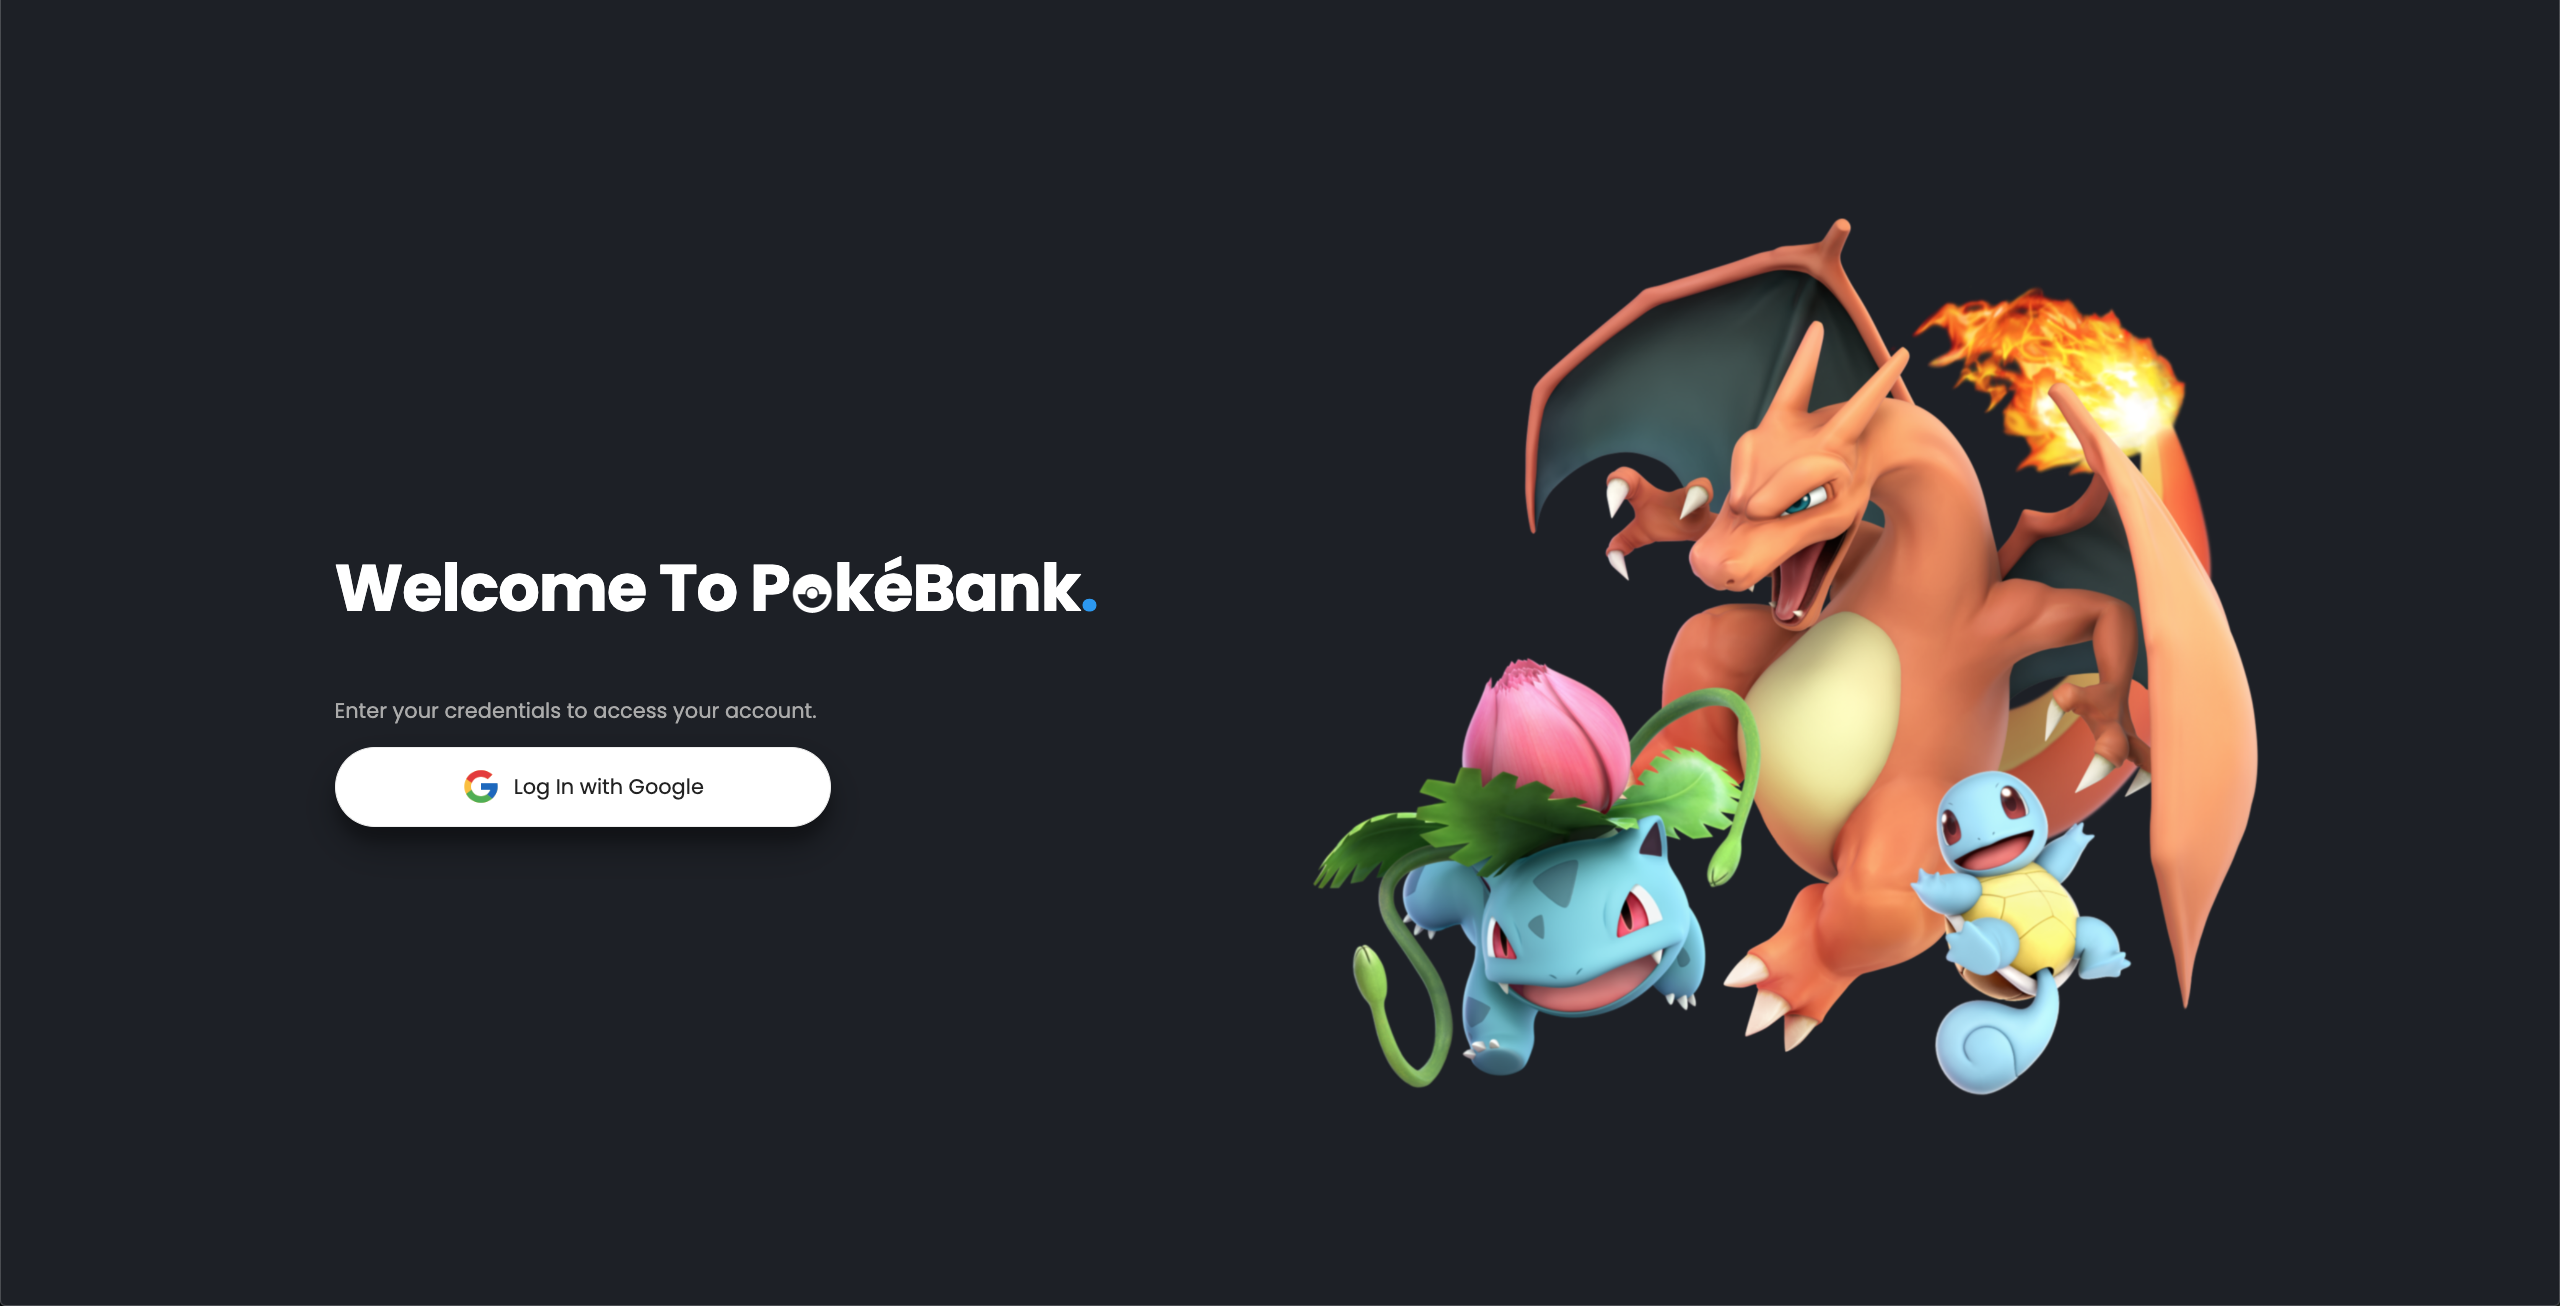
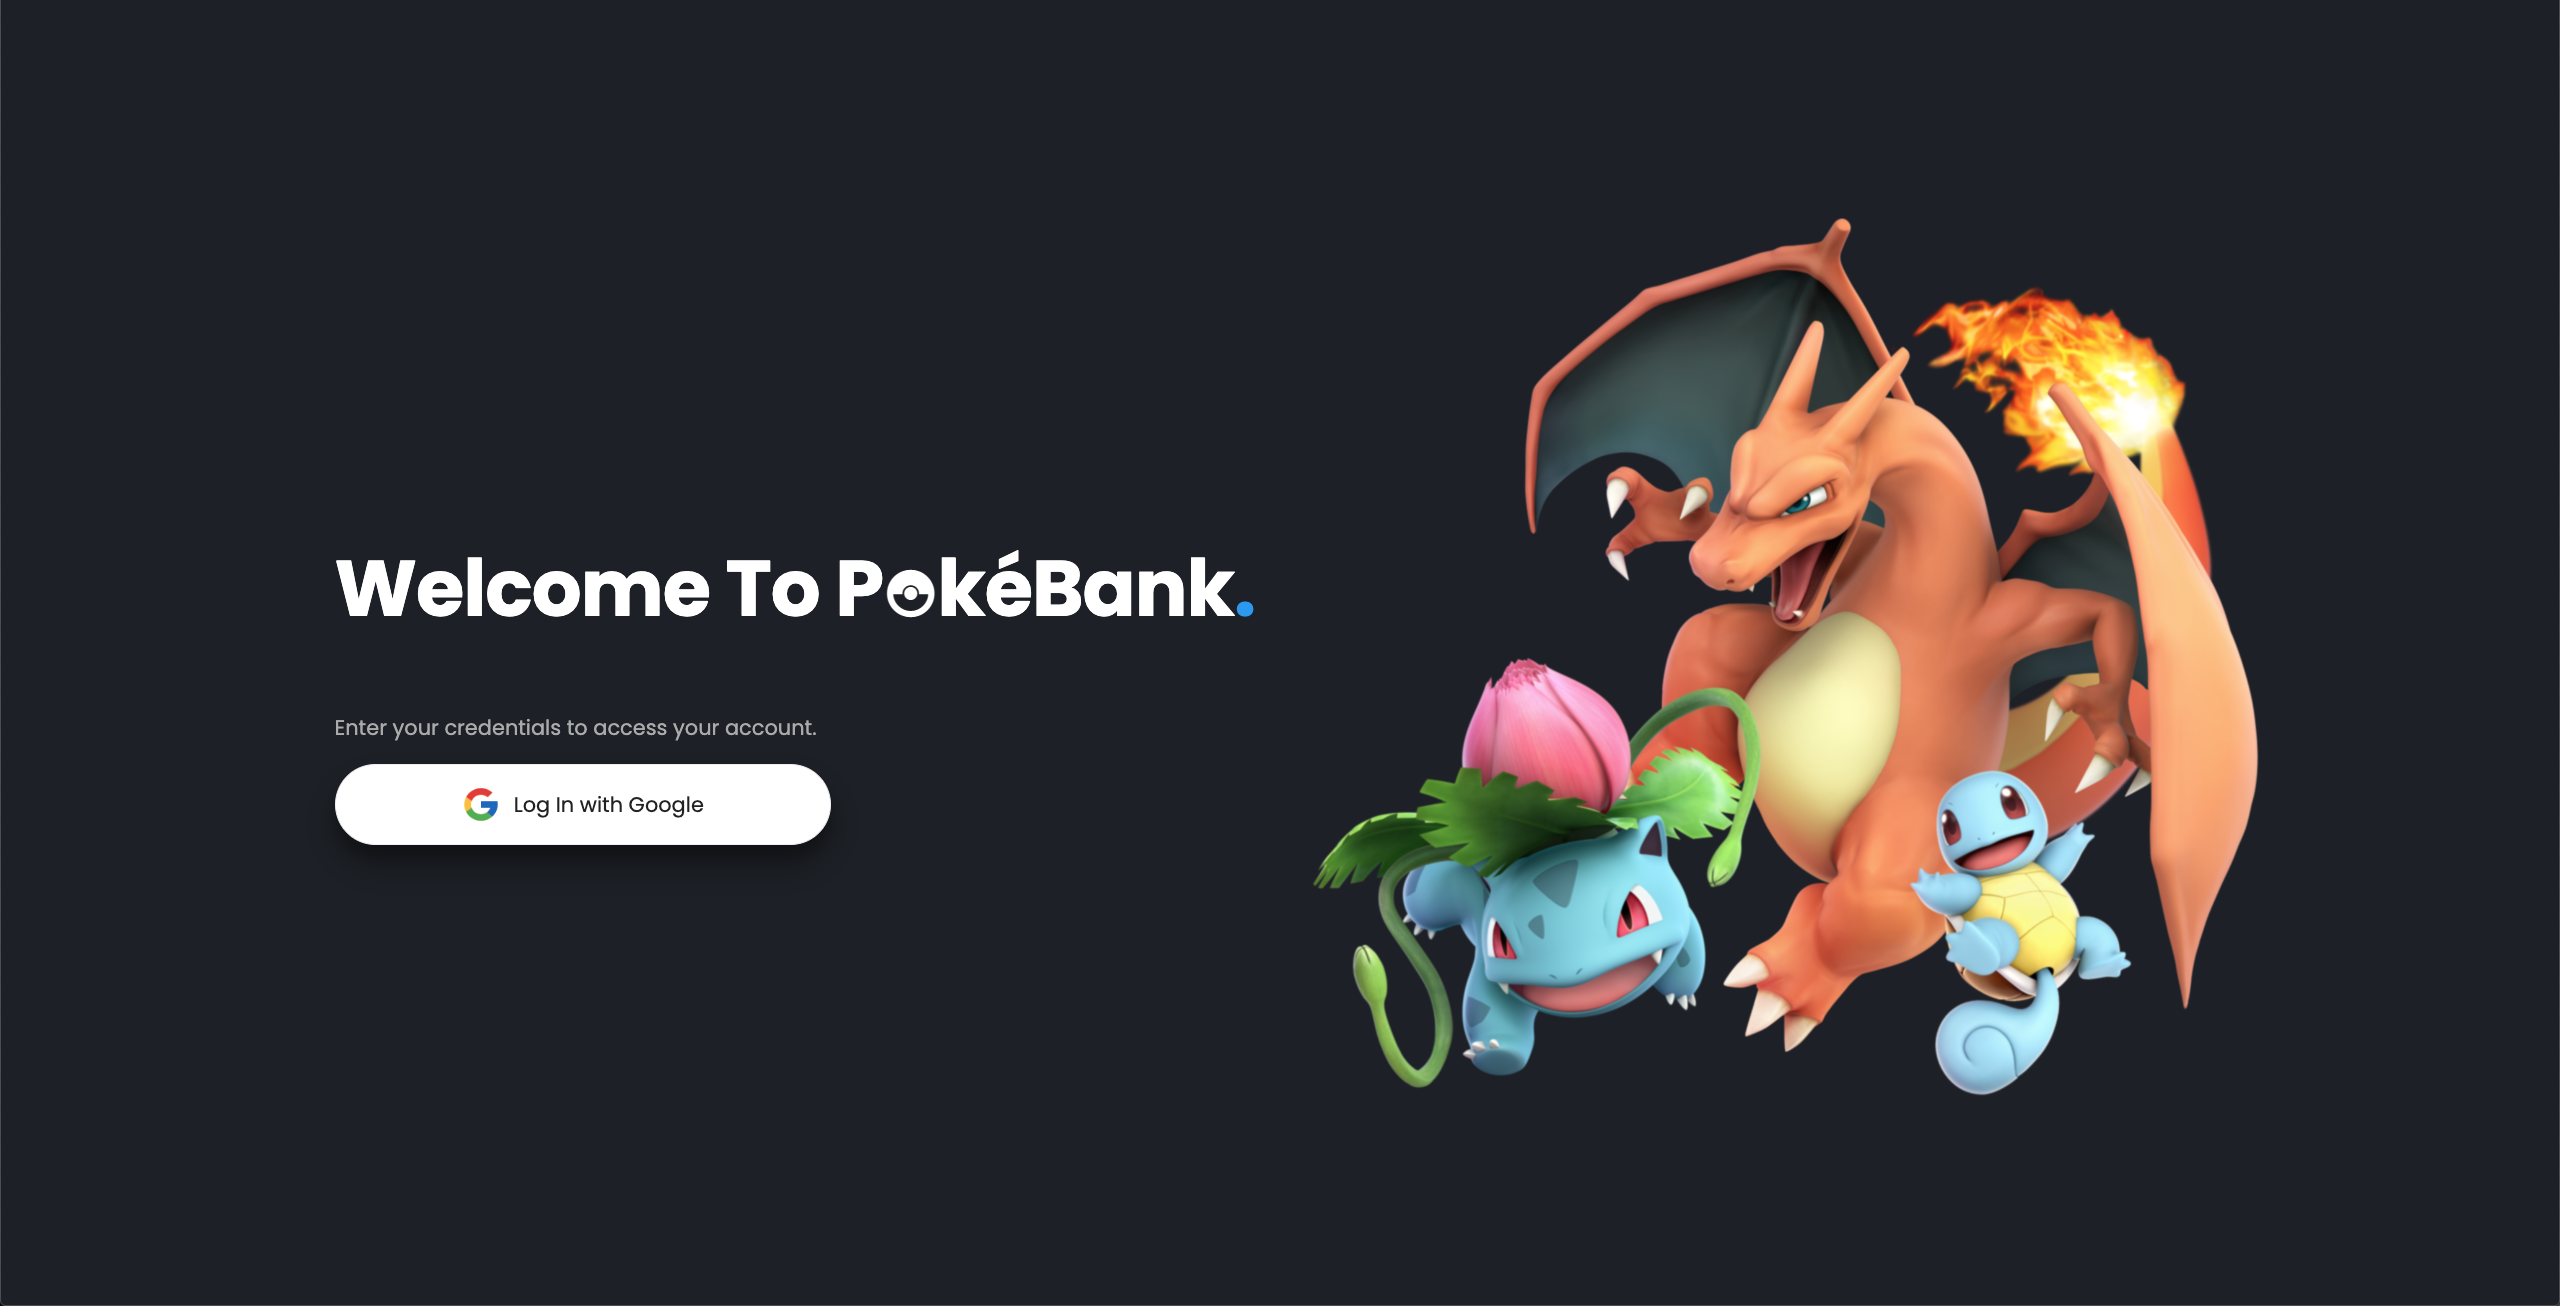
update readme

Changed region(s): [[0.125, 0.5207, 0.3438, 0.6738], [0.125, 0.4288, 0.5, 0.49]]

diff --git a/public/stylesheets/style.css b/public/stylesheets/style.css
@@ -179,7 +179,7 @@ button:hover {
 /* landing and error page */
 
 h1 {
-  font-size: 5vmin;
+  font-size: 6vmin;
   color: white;
   letter-spacing: -1px;
 }
@@ -204,7 +204,7 @@ h1 {
 
 .landingicon {
   font-family: 'Material Icons';
-  font-size: 45px;
+  font-size: 55px;
   position: relative;
   top: 5px;
 }
